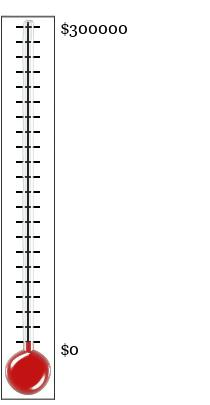
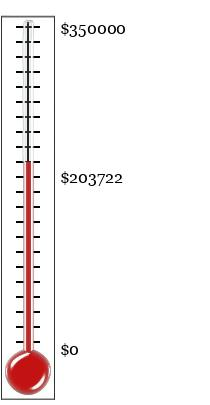
2023 Fundraising update: $203,722; Community goes Irridium; Genua goes Silver

Changed region(s): [[0.0857, 0.3852, 0.1714, 0.8593], [0.2857, 0.4148, 0.6, 0.4741], [0.3714, 0.0593, 0.6, 0.0889]]

diff --git a/contributors.html b/contributors.html
@@ -91,9 +91,9 @@ individually here, for their contributions to the foundation.
 <A HREF=donations.html>Donations Page</A>
 <BR>
 
-<A HREF=campaign2022.html><h4>2022 Fundraising Campaign</h4></A>
+<A HREF=campaign2023.html><h4>2023 Fundraising Campaign</h4></A>
 <P>
-For 2022 The OpenBSD Foundation will recognize donors in the following
+For 2023 The OpenBSD Foundation will recognize donors in the following
 categories based on contribution amount. Recognition is based on the
 Canadian dollar value of the contribution at the time the contribution is
 received. If you wish to achieve a particular recognition level please
@@ -103,6 +103,24 @@ to ensure your donation will be sufficient to get the desired recognition.
 <P>
 On request we will provide a link to your website for donations of
     $5000 or more, and display your logo for donations of $10,000 or more.
+
+<HR>
+    <A HREF=campaign2023.html><h4>2023 Fundraising Campaign</h4></A>
+    <EM><A HREF=activities.html#2023>2023 Supported Activities</A></EM>
+    <UL>
+        <LI> Iridium: $100,000 and above
+         <UL>
+            <LI><A HREF=donations.html>Total from smaller donors</A>
+        </UL>
+        <LI> Platinum: $50,000 to $100,000
+        <LI> Gold: $25,000 to $50,000
+        <LI> Silver: $10,000 to $25,000
+            <UL>
+                <LI><A HREF=http://www.genua.de>genua gmbh</A>
+            </Ul>
+        <LI> Bronze: $5,000 to $10,000
+    </UL>
+<HR>
 
 <HR>
     <A HREF=campaign2022.html><h4>2022 Fundraising Campaign</h4></A>
